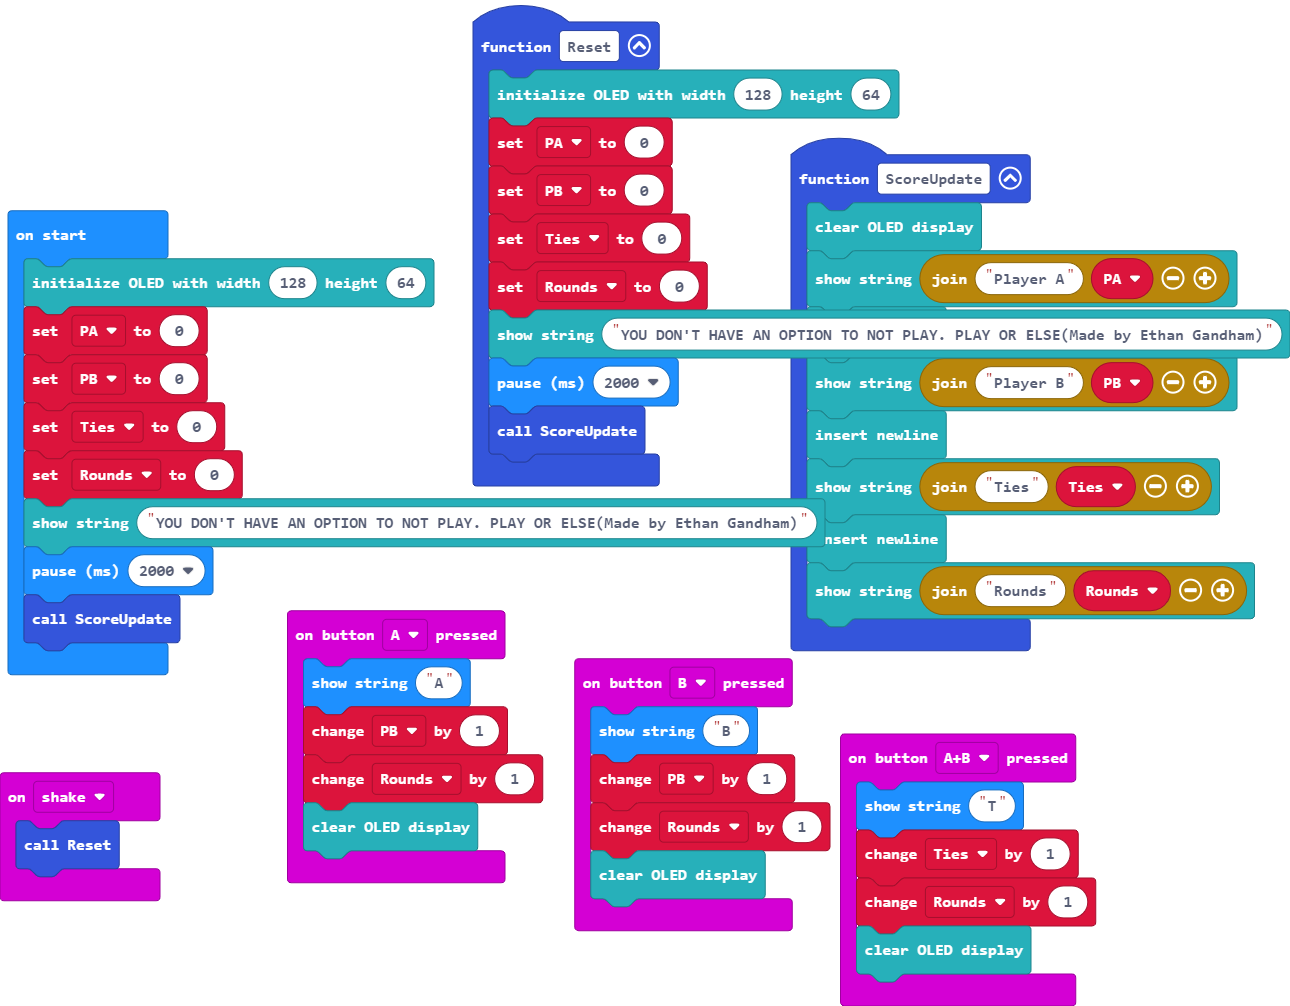
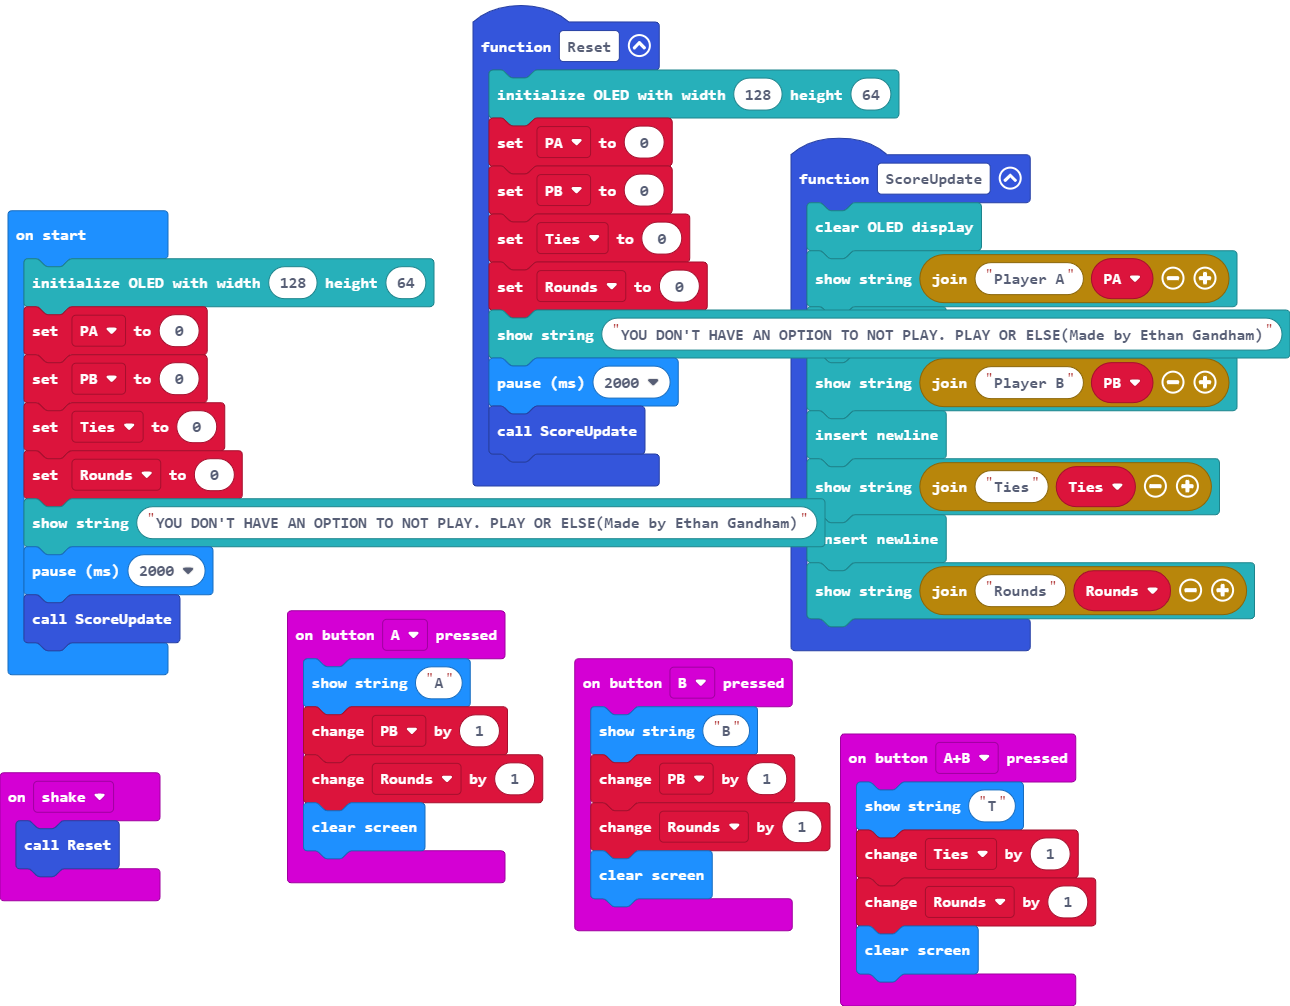
Update main.blocks, main.ts

Changed region(s): [[0.6512, 0.8936, 0.8062, 0.9861], [0.2171, 0.7704, 0.3721, 0.8628], [0.4341, 0.832, 0.6202, 0.9245]]

diff --git a/main.ts b/main.ts
@@ -2,19 +2,19 @@ input.onButtonPressed(Button.A, function () {
     basic.showString("A")
     PB += 1
     Rounds += 1
-    OLED.clear()
+    basic.clearScreen()
 })
 input.onButtonPressed(Button.AB, function () {
     basic.showString("T")
     Ties += 1
     Rounds += 1
-    OLED.clear()
+    basic.clearScreen()
 })
 input.onButtonPressed(Button.B, function () {
     basic.showString("B")
     PB += 1
     Rounds += 1
-    OLED.clear()
+    basic.clearScreen()
 })
 input.onGesture(Gesture.Shake, function () {
     Reset()
